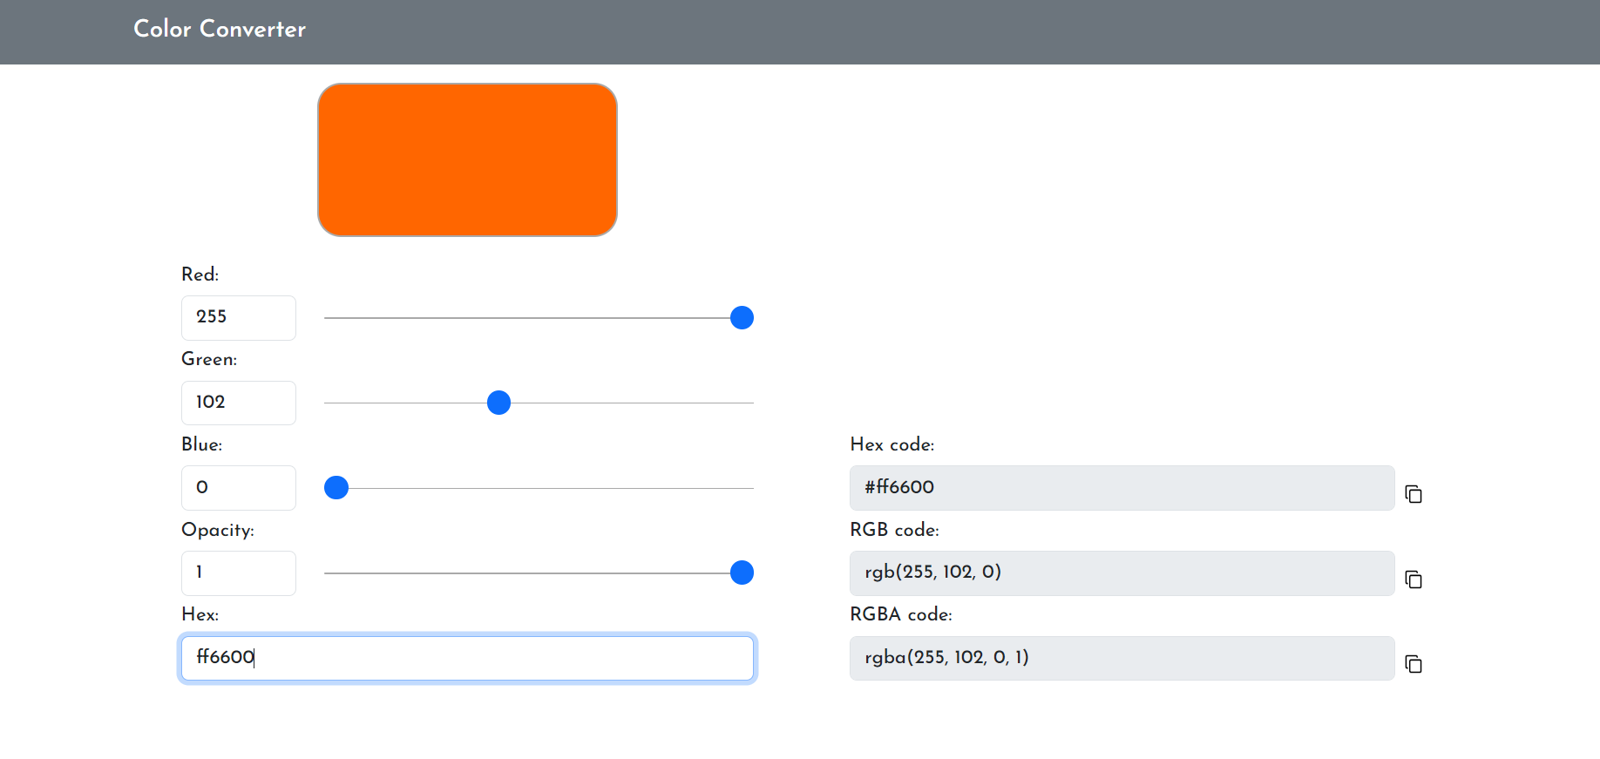
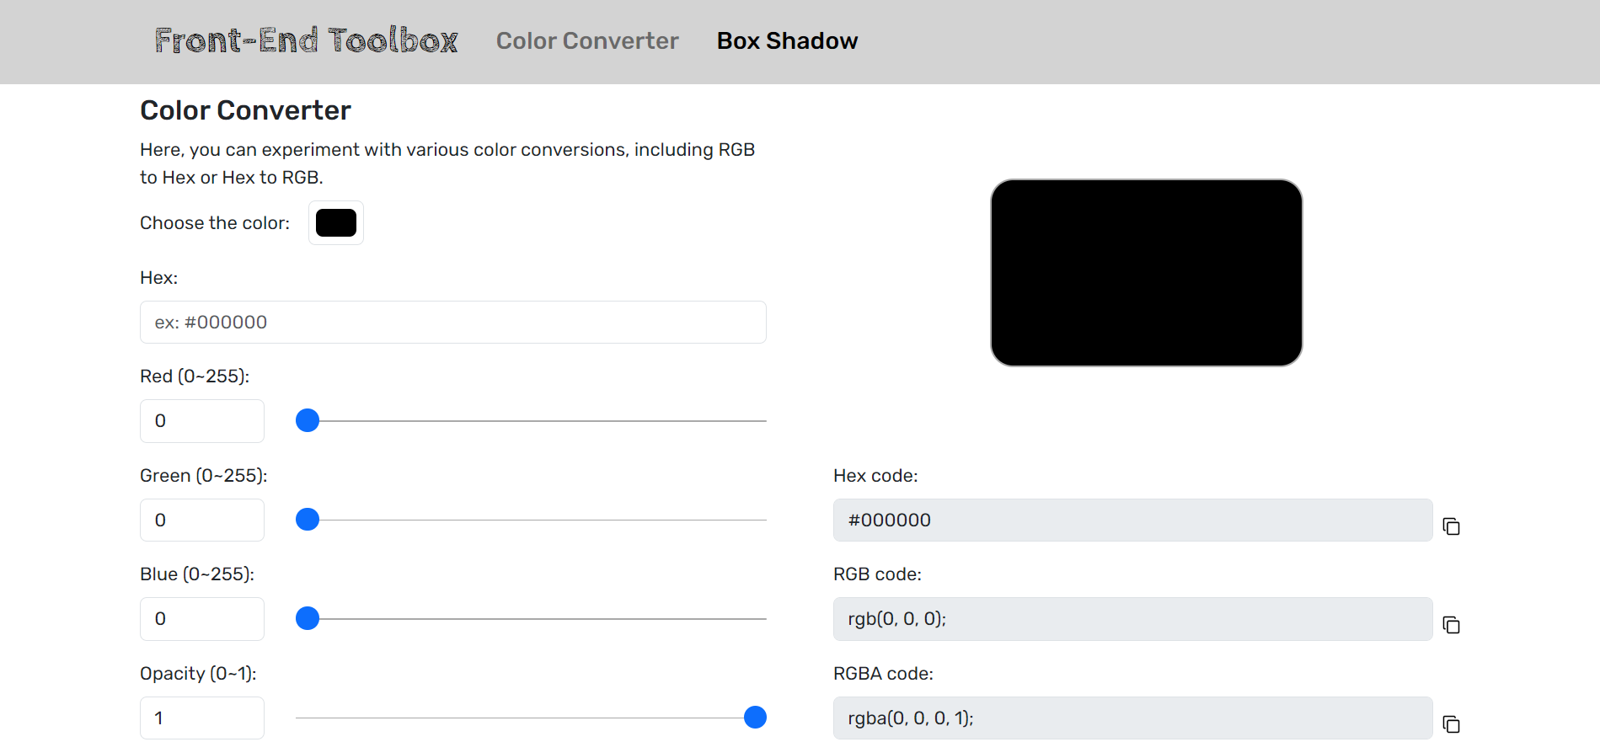
modified: data

diff --git a/src/data/portfolio-list.js b/src/data/portfolio-list.js
@@ -2,45 +2,37 @@ import twitterImg from '../assets/portfolio/twitter.png'
 import plantaeImg from '../assets/portfolio/plantae.png'
 import colorImg from '../assets/portfolio/color.png'
 import urlImg from '../assets/portfolio/url.png'
-import clockImg from '../assets/portfolio/clock.png'
 
 const portfolioList = [
     {
         id: 1,
-        name: 'Simple Twitter',
-        img: twitterImg,
-        des: 'Our project, Simple Twitter, was developed by a four-person team using a front-end and back-end separation approach in two week. Our goal was to create a simple, multi-functional social platform that includes user registration, login, posting, commenting, liking, following features, and a convenient admin dashboard.',
-        url: 'https://chungyingho.github.io/Twitter/'
+        name: 'PLANTAE Taiwan',
+        img: plantaeImg,
+        des: "PLANTAE Taiwan is a studio showcase website created for a friend's team. I was responsible for all web layout design, UI/UX design, RWD design, and web development. (With the consent of the friend's team, this project has been added to the portfolio).",
+        url: 'https://chungyingho.github.io/plantae-ver2/',
+        rwd: '(Supports RWD)'
     },
     {
         id: 2,
-        name: 'PLANTAE Taiwan',
-        img: plantaeImg,
-        des: 'This project is a showcase website for the PLANTAE Taiwan workshop with basic responsive web design (RWD) implemented. In this project, I was responsible for designing the entire web layout and developing it using React. The goal was to create a visually appealing and user-friendly showcase website.',
-        url: 'https://chungyingho.github.io/plantae-taiwan/',
+        name: 'Front-End Toolbox',
+        img: colorImg,
+        des: 'This Front-End Toolbox allows users to easily look up color codes (including RGB, RGBA, Hex) and quickly experiment with various types of box shadow configurations, whether on a PC or a mobile device.',
+        url: 'https://chungyingho.github.io/frontend-toolbox/',
         rwd: '(Supports RWD)'
     },
     {
         id: 3,
-        name: 'Color Converter',
-        img: colorImg,
-        des: 'Color Converter allows users to easily and freely convert between RGB and Hex color codes on both PC and mobile devices. It also provides opacity previews, saving users time on searching for color code conversions. This project is developed using React and accelerates web development through React Bootstrap.',
-        url: 'https://chungyingho.github.io/color-converter/',
-        rwd: '(Supports RWD)'
+        name: 'URL Shortener',
+        img: urlImg,
+        des: 'The URL Shortener is a personal project developed using Express.js, Handlebars, and MySQL. This web application allows users to simplify long URLs into easily shareable short URLs, providing a convenient way to manage links on the web.',
+        url: 'http://url-shortener-dev.ap-northeast-1.elasticbeanstalk.com/'
     },
     {
         id: 4,
-        name: 'URL Shortener',
-        img: urlImg,
-        des: 'The URL Shortener is a personal project developed using Express.js, Handlebars, and MongoDB Atlas. This web application allows users to simplify long URLs into easily shareable short URLs, providing a convenient way to manage links on the web.',
-        url: 'https://github.com/ChungYingHo/URL-Shortener/tree/main'
-    },
-    {
-        id: 5,
-        name: 'Analog Clock',
-        img: clockImg,
-        des: `This Analog Clock project showcases my integrated application skills in HTML, CSS, and JavaScript. I used HTML to create the basic structure of the clock, including the hour hand, minute hand, and second hand. CSS was employed to define the positions of these elements and to style the clock's appearance. JavaScript was responsible for the actual functionality of the clock.`,
-        url: 'https://chungyingho.github.io/Analog-Clock/'
+        name: 'Simple Twitter',
+        img: twitterImg,
+        des: 'Our project, Simple Twitter, was developed by a four-person team using a front-end and back-end separation approach in two week. Our goal was to create a simple, multi-functional social platform that includes user registration, login, posting, commenting, liking, following features, and a convenient admin dashboard. (The API server has been deactivated, and now the project only consists of the frontend interface.)',
+        url: 'https://chungyingho.github.io/Twitter/'
     }
 ]
 

diff --git a/src/data/practice-list.js b/src/data/practice-list.js
@@ -2,6 +2,7 @@ import eCommerseImg from '../assets/portfolio/e-commerce.png'
 import lemonImg from '../assets/portfolio/lemon.png'
 import shopImg from '../assets/portfolio/alpha-shop.png'
 import todoImg from '../assets/portfolio/todo-list.png'
+import clockImg from '../assets/portfolio/clock.png'
 
 const practiceList = [
     {
@@ -32,6 +33,13 @@ const practiceList = [
         img: todoImg,
         des: 'This to-do list project is developed using Express, manages data with MongoDB Atlas, and accelerates the creation of the website interface using Bootstrap. Users can easily add, edit, and delete their to-do items.',
         url: 'https://github.com/ChungYingHo/Todo-List-v1.0'
+    },
+    {
+        id: 5,
+        name: 'Analog Clock',
+        img: clockImg,
+        des: `This Analog Clock project showcases my integrated application skills in HTML, CSS, and JavaScript. I used HTML to create the basic structure of the clock, including the hour hand, minute hand, and second hand. CSS was employed to define the positions of these elements and to style the clock's appearance. JavaScript was responsible for the actual functionality of the clock.`,
+        url: 'https://chungyingho.github.io/Analog-Clock/'
     }
 ]
 

diff --git a/src/pages/Skill/Skill.jsx b/src/pages/Skill/Skill.jsx
@@ -30,6 +30,7 @@ export default function Skill(){
                         <SkillCard img={require('../../assets/nodejs.png')} alt={'node'} name={'Node.js'}/>
                         <SkillCard img={require('../../assets/express.png')} alt={'express'} name={'Express'}/>
                         <SkillCard img={require('../../assets/MongoDB_ForestGreen.png')} alt={'MongoDB'} name={'MongoDB'}/>
+                        <SkillCard img={require('../../assets/mysql.png')} alt={'MongoDB'} name={'MySQL'}/>
                     </div>
                 </div>
             </div>

diff --git a/src/pages/Home/Home.module.scss b/src/pages/Home/Home.module.scss
@@ -52,10 +52,19 @@
     }
 }
 
+.icon-container{
+    height: 2.5rem;
+    display: flex;
+    align-items: center;
+}
+
 .icon{
     width: 2rem;
     cursor: pointer;
     margin: 0 0.5rem;
+    &:hover{
+        width: 2.5rem;
+    }
 }
 
 // RWD
@@ -76,5 +85,8 @@
         transform: translate(0, 0);
         width: 100%;
         text-align: center;
+    }
+    .icon-container{
+        justify-content: center;
     }
 }
